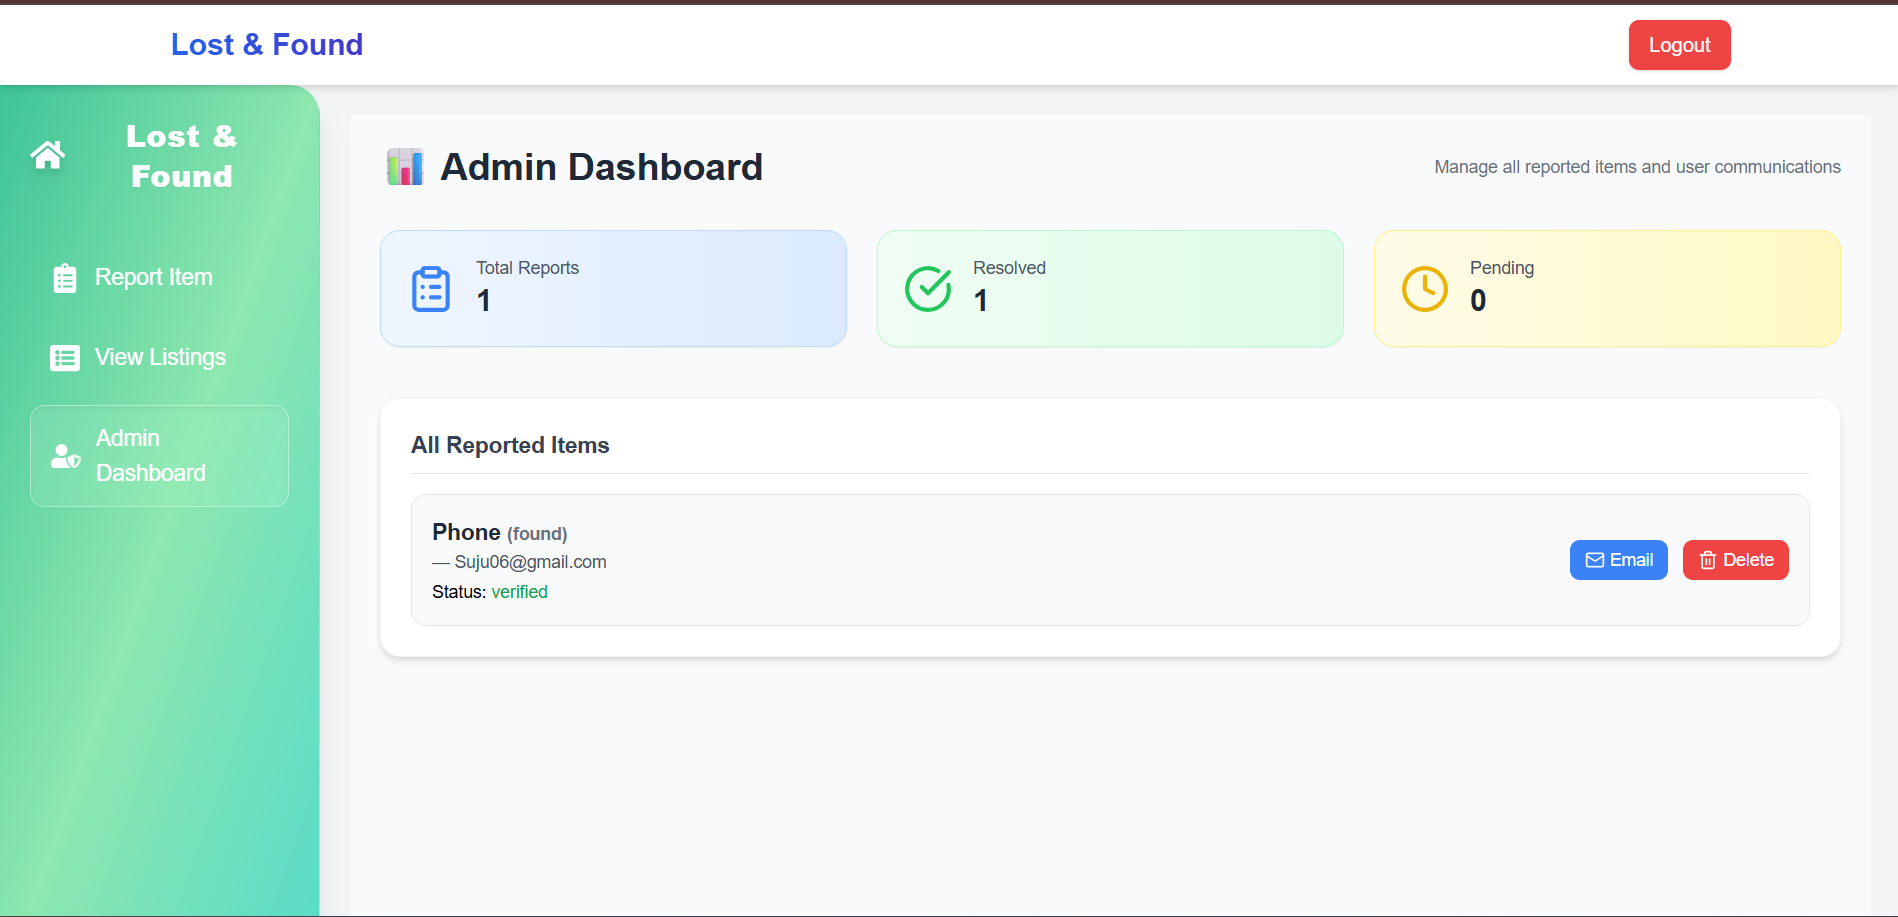
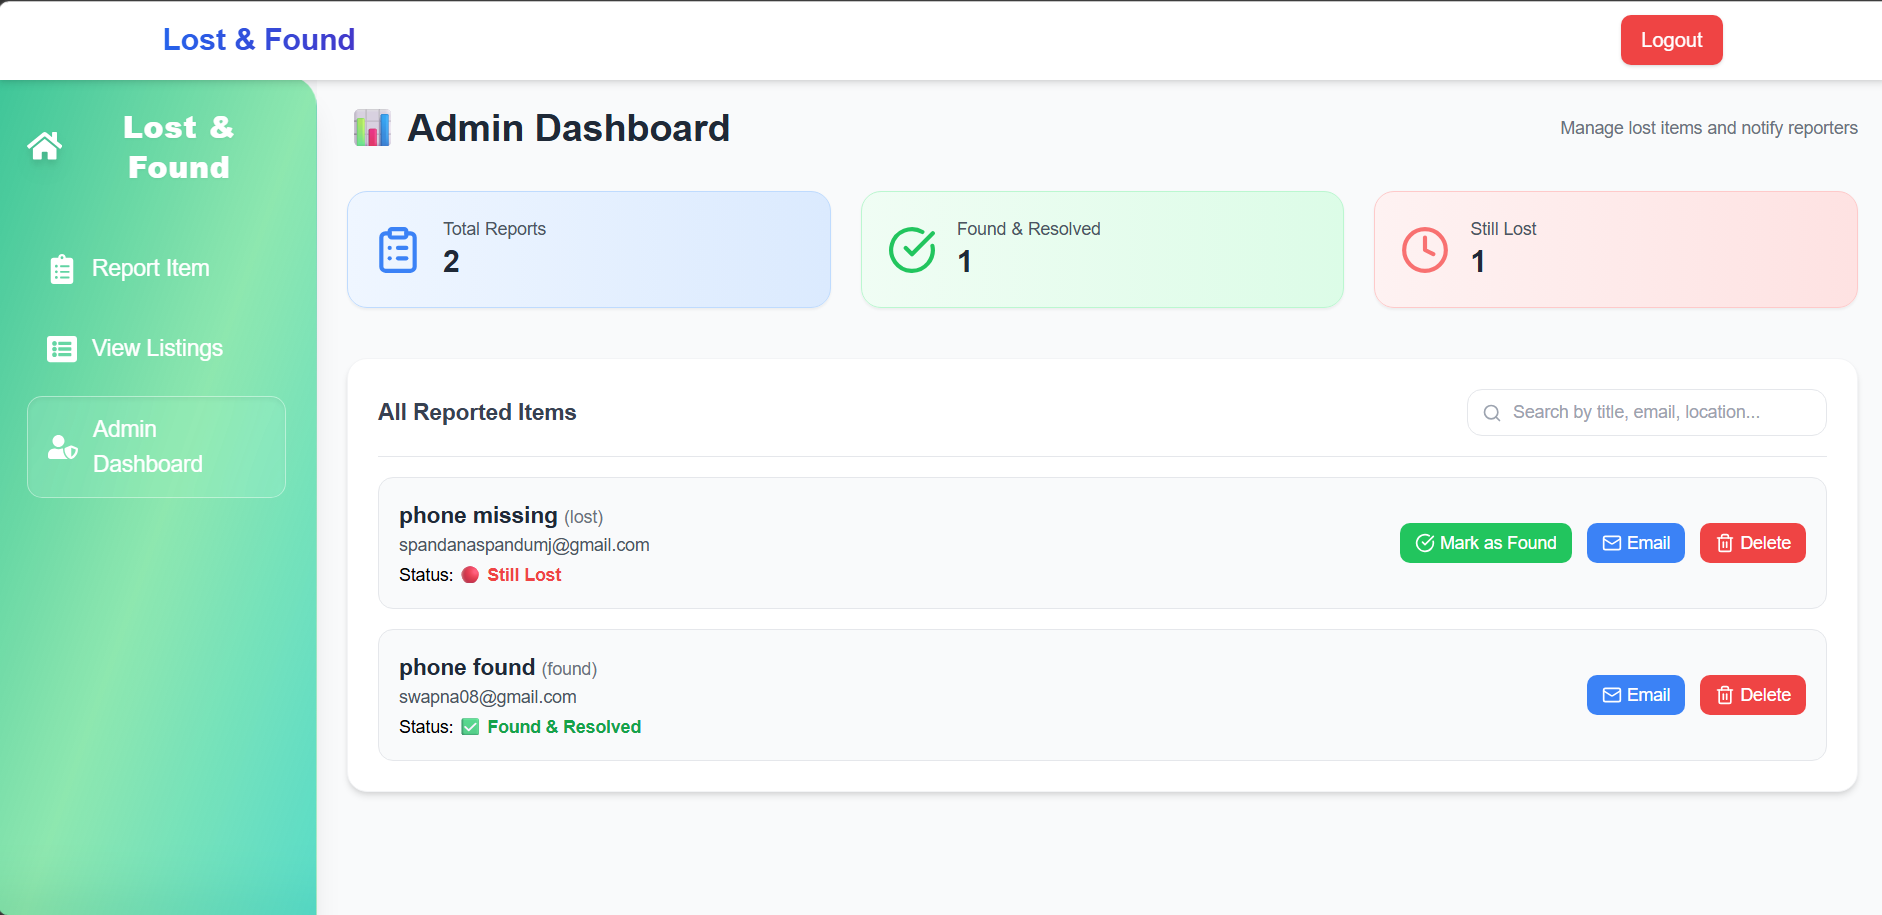
updated readme

diff --git a/client/src/pages/Listings.jsx b/client/src/pages/Listings.jsx
@@ -192,13 +192,27 @@ export default function Listings() {
 
                     {/* ✅ Status column — clear language */}
                     <td className="px-6 py-4 align-middle font-semibold">
-                      <span className={`px-3 py-1 rounded-full text-sm ${
+                      {/* <span className={`px-3 py-1 rounded-full text-sm ${
                         item.verified
                           ? "bg-green-100 text-green-700"   // found by admin
                           : "bg-red-100 text-red-600"       // still lost
                       }`}>
                         {item.verified ? "✅ Found" : "🔴 Still Lost"}
-                      </span>
+                      </span> */}
+
+                      <span className={`px-3 py-1 rounded-full text-sm ${
+    item.verified
+      ? "bg-green-100 text-green-700"
+      : item.type === "lost"
+        ? "bg-red-100 text-red-600"
+        : "bg-blue-100 text-blue-600"
+  }`}>
+    {item.verified
+      ? "✅ Resolved"
+      : item.type === "lost"
+        ? "🔴 Still Lost"
+        : "🔵 Found Item"}
+  </span>
                     </td>
 
                     {/* ✅ Admin actions — button says "Mark as Found" */}

diff --git a/server/routes/items.js b/server/routes/items.js
@@ -55,7 +55,7 @@ router.get("/public", async (req, res) => {
 
     const filter = {
       verified: false, // ✅ CHANGED: false = still lost, not yet found by admin
-      type: "lost",    // ✅ only lost items make sense to browse publicly
+       type: "lost",    // ✅ only lost items make sense to browse publicly
       ...(search && {
         $or: [
           { title:       { $regex: search, $options: "i" } },

diff --git a/README.md b/README.md
@@ -11,36 +11,39 @@ A full-stack platform to report, browse, and recover lost items. Users report lo
 
 ---
 
-## 📸 Screenshots
+
+## Screenshots
 
 ### Home Page
-![Home Page](screenshots/Home.png)
+![Home Page](./screenshots/Homepage.png)
 
-### Sign up page
-![sign up page](screenshots/signup.png)
+### Report Item form
+![sign up page](./screenshots/Reportpage.png)
 
-### login page
-![login page](screenshots/login.png)
+### view listings
+![login page](./screenshots/Reported-itempage.png)
 
-### Report Item Form
-![Report item form](screenshots/report.png)
-
-
-### user Listings
-![user listings](screenshots/viewlist.png)
+### browse item page
+![Report item form](./screenshots/Browseitem.png)
 
 
-### Admin view listings
-![Admin Viewlistings](screenshots/viewlisting.png)
+### email page
+![user listings](./screenshots/emailpage.png)
+
+
+### delete page
+![Admin Viewlistings](./screenshots/Deletepage.png)
 
 ### Admin Dashboard
-![Admin Dashboard](screenshots/admindashboard.png)
+![Admin Dashboard](./screenshots/Admindashboard.png)
 
 
 
 🎬 **Project Demo**
 
-[![Demo Video](https://github.com/Spandana-MJ/lost-found/raw/main/assets/demo-video.png)](https://drive.google.com/file/d/1ywxdusUf0LhL1RfEeBKUj-UMS70JCM5-/preview)
+
+
+[![Watch Demo](./assets/Homepage.png)](https://drive.google.com/file/d/1jDRb05lc4UvxENWh-Vo5EIJpdgfgoG-d/view?usp=sharing)
 
 ---
 
